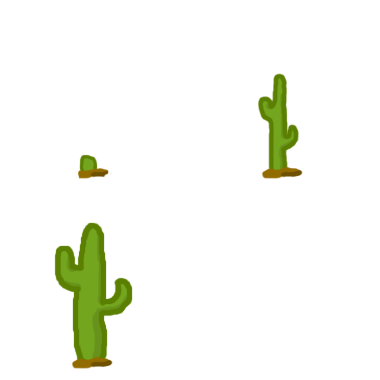
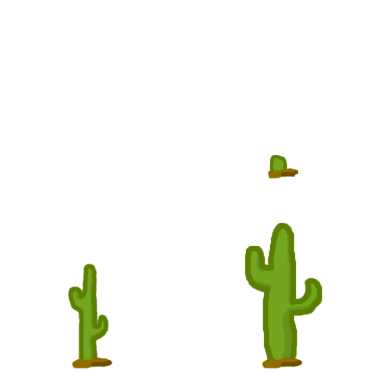
planets covered in still cacti

diff --git a/client/LocalCactus.js b/client/LocalCactus.js
@@ -1,44 +1,36 @@
 /* global game */
 
-var LocalCactus = function (hostPlanetObj, group, info) {
+var LocalCactus = function (hostPlanetObj, placeIdx, group, info) {
+  this.hostPlanetObj = hostPlanetObj
+  this.placeIdx = placeIdx
 
-  this.planetID = planetID
-
-  this.gameObj = group.create(info.x, info.y, 'planet')
-  this.gameObj.anchor.setTo(0.5, 0.5)
-  this.gameObj.inputEnabled = true;
-  this.gameObj.events.onInputDown.add(this.onClickListener, this);
-
+  this.gameObj = group.create(-10000, -10000, 'cactus1')
+  this.gameObj.anchor.setTo(0.5, 0.9)
+  this.gameObj.animations.add("empty", [0], 1, true);
+  for (var i = 1; i <= 3; i++) {
+    this.gameObj.animations.add(i.toString(), [i], 1, true)
+  }
+  this.gameObj.animations.play("3")
+  this.gameObj.scale = new Phaser.Point(this.hostPlanetObj.info.size,
+      this.hostPlanetObj.info.size)
   this.setInfo(info)
 }
 
-// TODO ACTUALLY FIGURE OUT WHAT NEEDS TO GO IN HERE @@@@@@@@@@@@@@@@@
-
-// nobody's, mine, not mine
-LocalCactus.colors = [0xbbbbbb, 0xddffdd, 0xbbeeff]
 LocalCactus.prototype.setInfo = function (info) {
-  CommonUtil.validate(info, Planet.generateNewInfo(this.planetID, 0, 0, ""))
+  CommonUtil.validate(info, Cactus.generateNewInfo("empty", 0))
   this.info = info
   if (null != info) {
-    var ownerID = info.owner
-    var colIdx = 0
-    if (null == ownerID || "" === ownerID) {
-      colIdx = 0
-    } else if (null != player && ownerID === player.playerID) {
-      colIdx = 1
-    } else {
-      colIdx = 2
-    }
-    this.gameObj.tint = LocalCactus.colors[colIdx]
 
-    this.gameObj.scale = new Phaser.Point(info.size, info.size)
-    this.gameObj.x = info.x
-    this.gameObj.y = info.y
   }
 }
 
 LocalCactus.prototype.update = function () {
-  this.gameObj.angle += this.info.rotSpeed
+  var degs = this.hostPlanetObj.gameObj.angle + this.placeIdx * 60
+  this.gameObj.angle = degs + 90
+  var rads = degs * CommonUtil.DEG_TO_RAD
+  var len = LocalPlanet.ORIG_RADIUS * this.hostPlanetObj.info.size
+  this.gameObj.x = this.hostPlanetObj.gameObj.x + len * Math.cos(rads)
+  this.gameObj.y = this.hostPlanetObj.gameObj.y + len * Math.sin(rads)
 }
 
 window.LocalPlanet = LocalPlanet

diff --git a/client/LocalPlanet.js b/client/LocalPlanet.js
@@ -10,6 +10,13 @@ var LocalPlanet = function (planetID, group, info) {
   this.gameObj.events.onInputDown.add(this.onClickListener, this);
 
   this.setInfo(info)
+
+  this.inhabitants = []
+  // TODO TESTING cacti
+  for (var i = 0; i < 6; i++) {
+    var cactus = new LocalCactus(this, i, group, {type:"empty"})
+    this.inhabitants.push(cactus)
+  }
 }
 
 // nobody's, mine, not mine
@@ -44,6 +51,12 @@ LocalPlanet.prototype.onClickListener = function () {
 
 LocalPlanet.prototype.update = function () {
   this.gameObj.angle += this.info.rotSpeed
+
+  for (var i = 0; i < this.inhabitants.length; i++) {
+    this.inhabitants[i].update()
+  }
 }
+
+LocalPlanet.ORIG_RADIUS = 115
 
 window.LocalPlanet = LocalPlanet

diff --git a/client/gameClient.js b/client/gameClient.js
@@ -9,7 +9,7 @@ function preload () {
   game.load.image('shout', 'assets/images/shout.png')
   game.load.image('pressshout', 'assets/images/pressShout.png')
 
-  game.load.image('cactus1', 'assets/images/cactus1_sheet.png')
+  game.load.spritesheet('cactus1', 'assets/images/cactus1_sheet.png', 180, 180)
 
   game.load.spritesheet('playerbee', 'assets/images/bigbee.png', 64, 64)
 }

diff --git a/common/CommonUtil.js b/common/CommonUtil.js
@@ -10,6 +10,8 @@
     }
   }
 
+  CommonUtil.DEG_TO_RAD = 3.141592653589792 / 180
+
   if (typeof module !== 'undefined' && typeof module.exports !== 'undefined')
     module.exports = CommonUtil
   else
